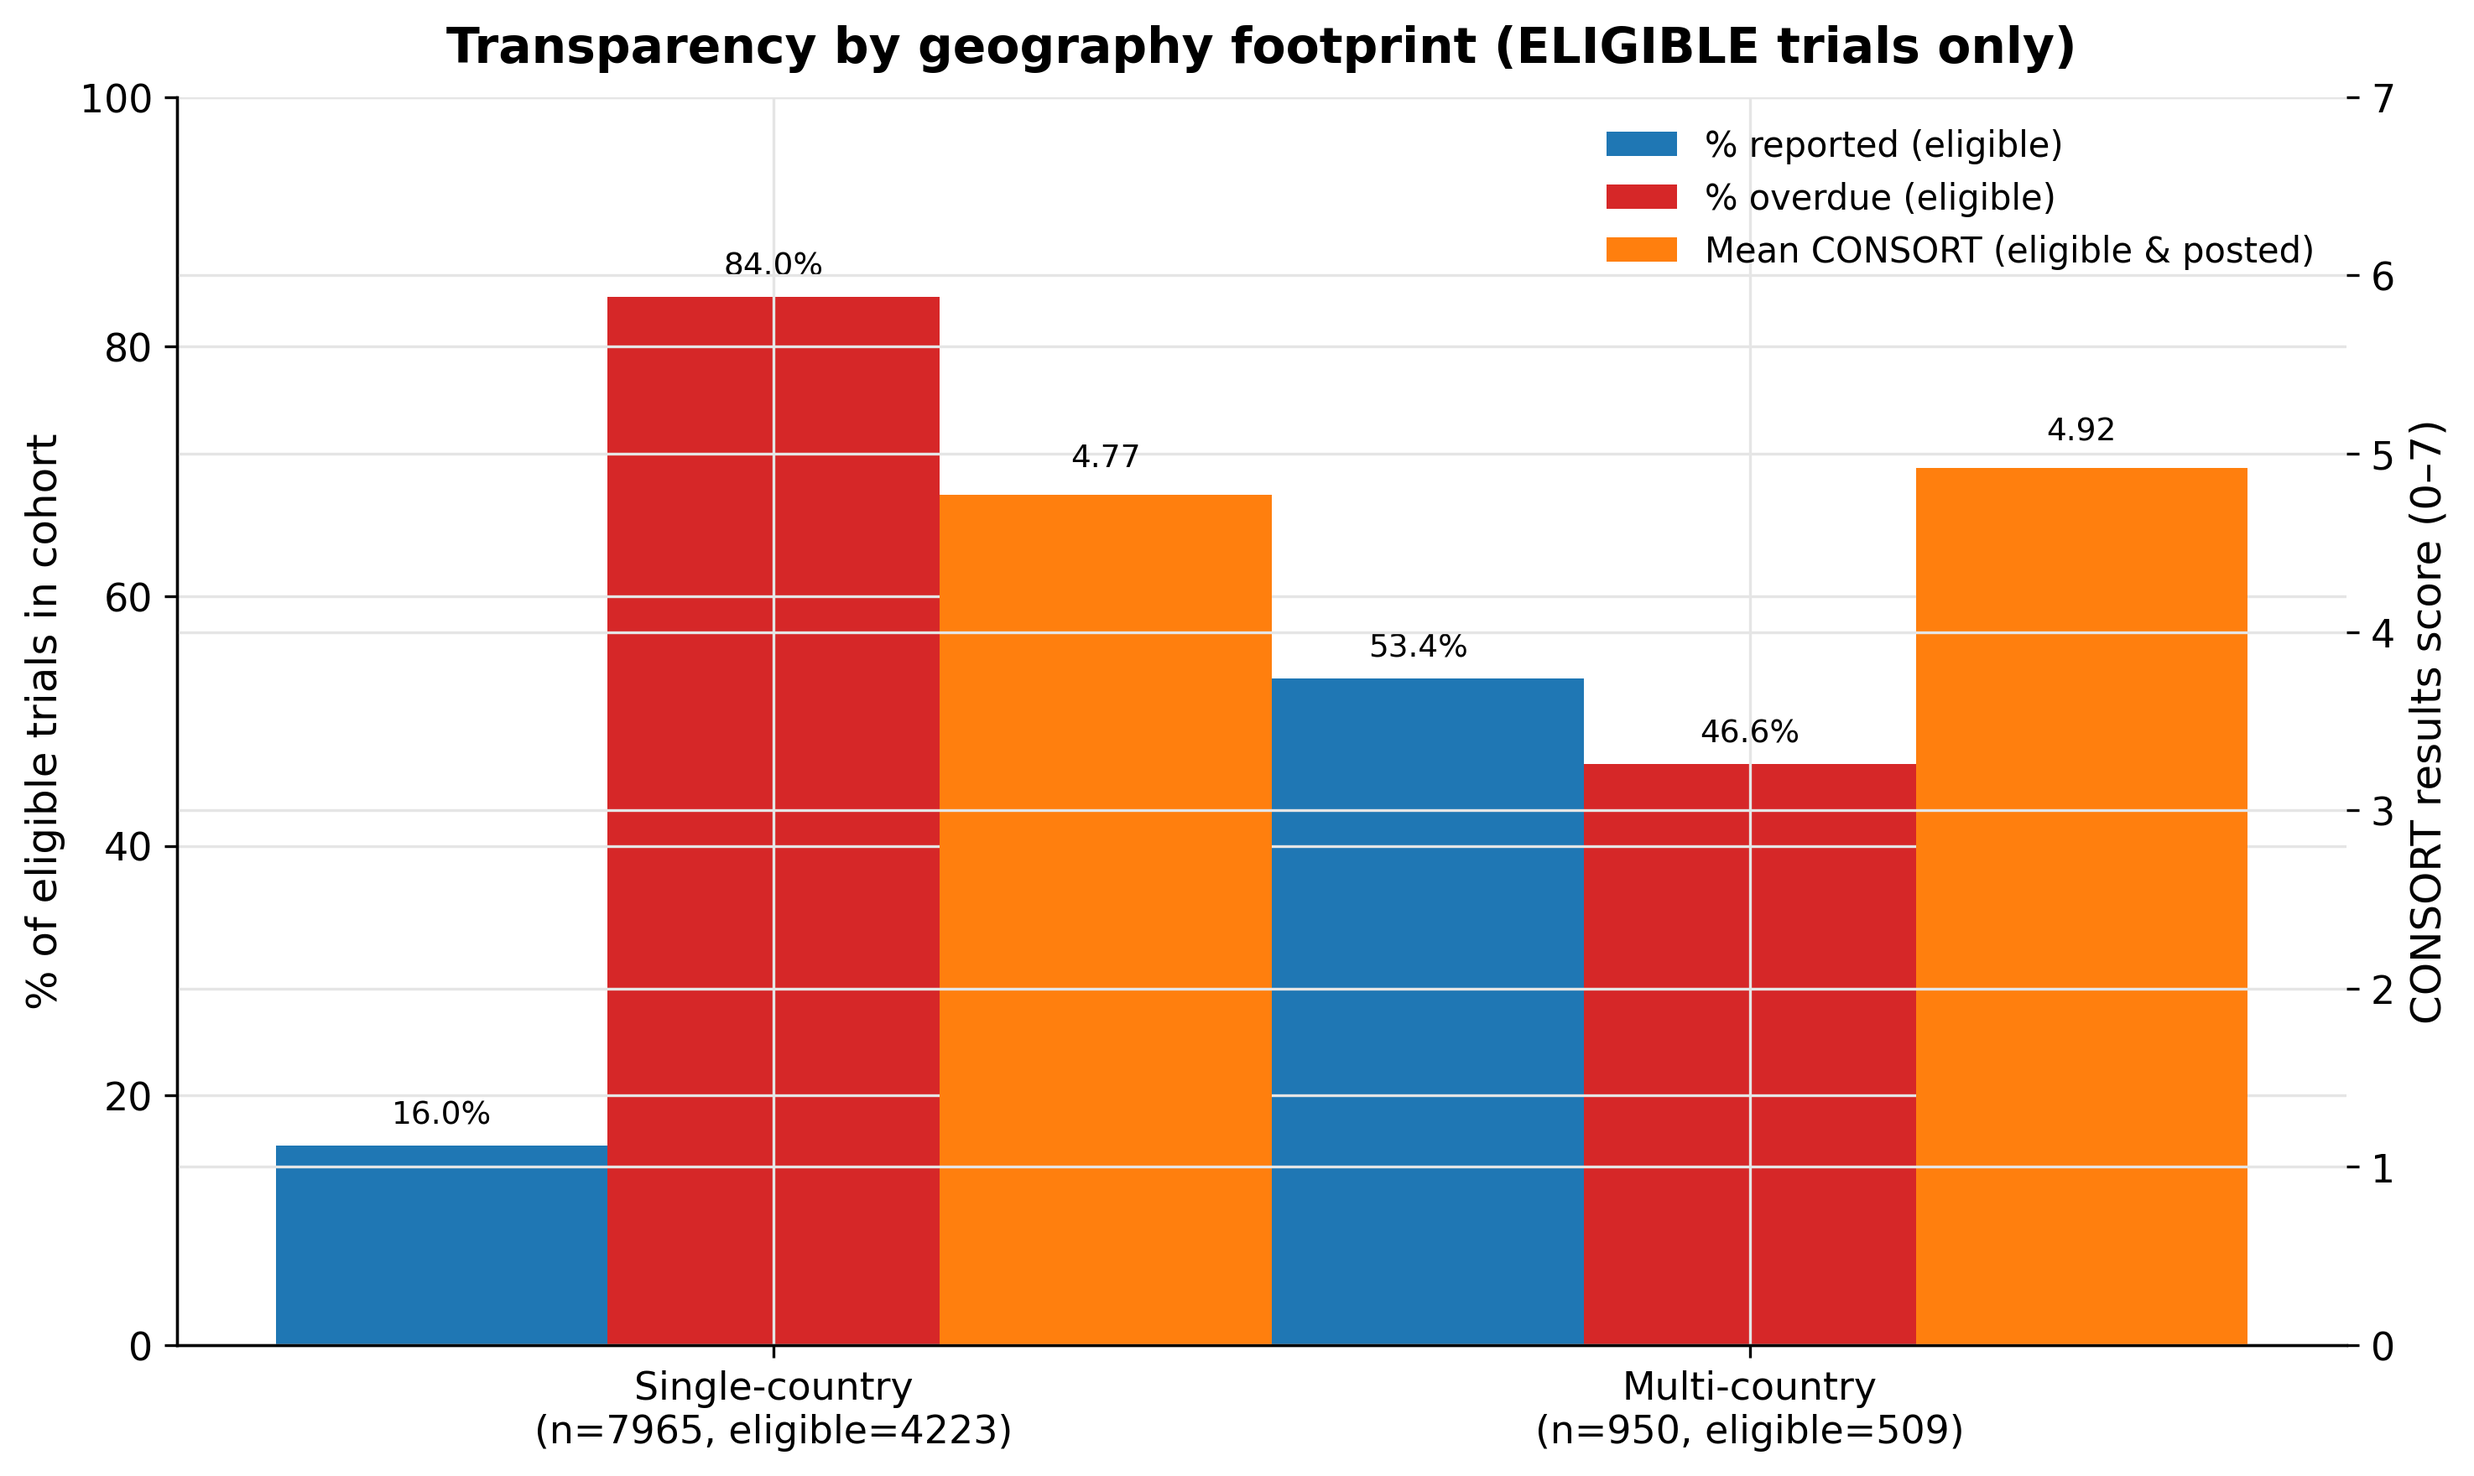
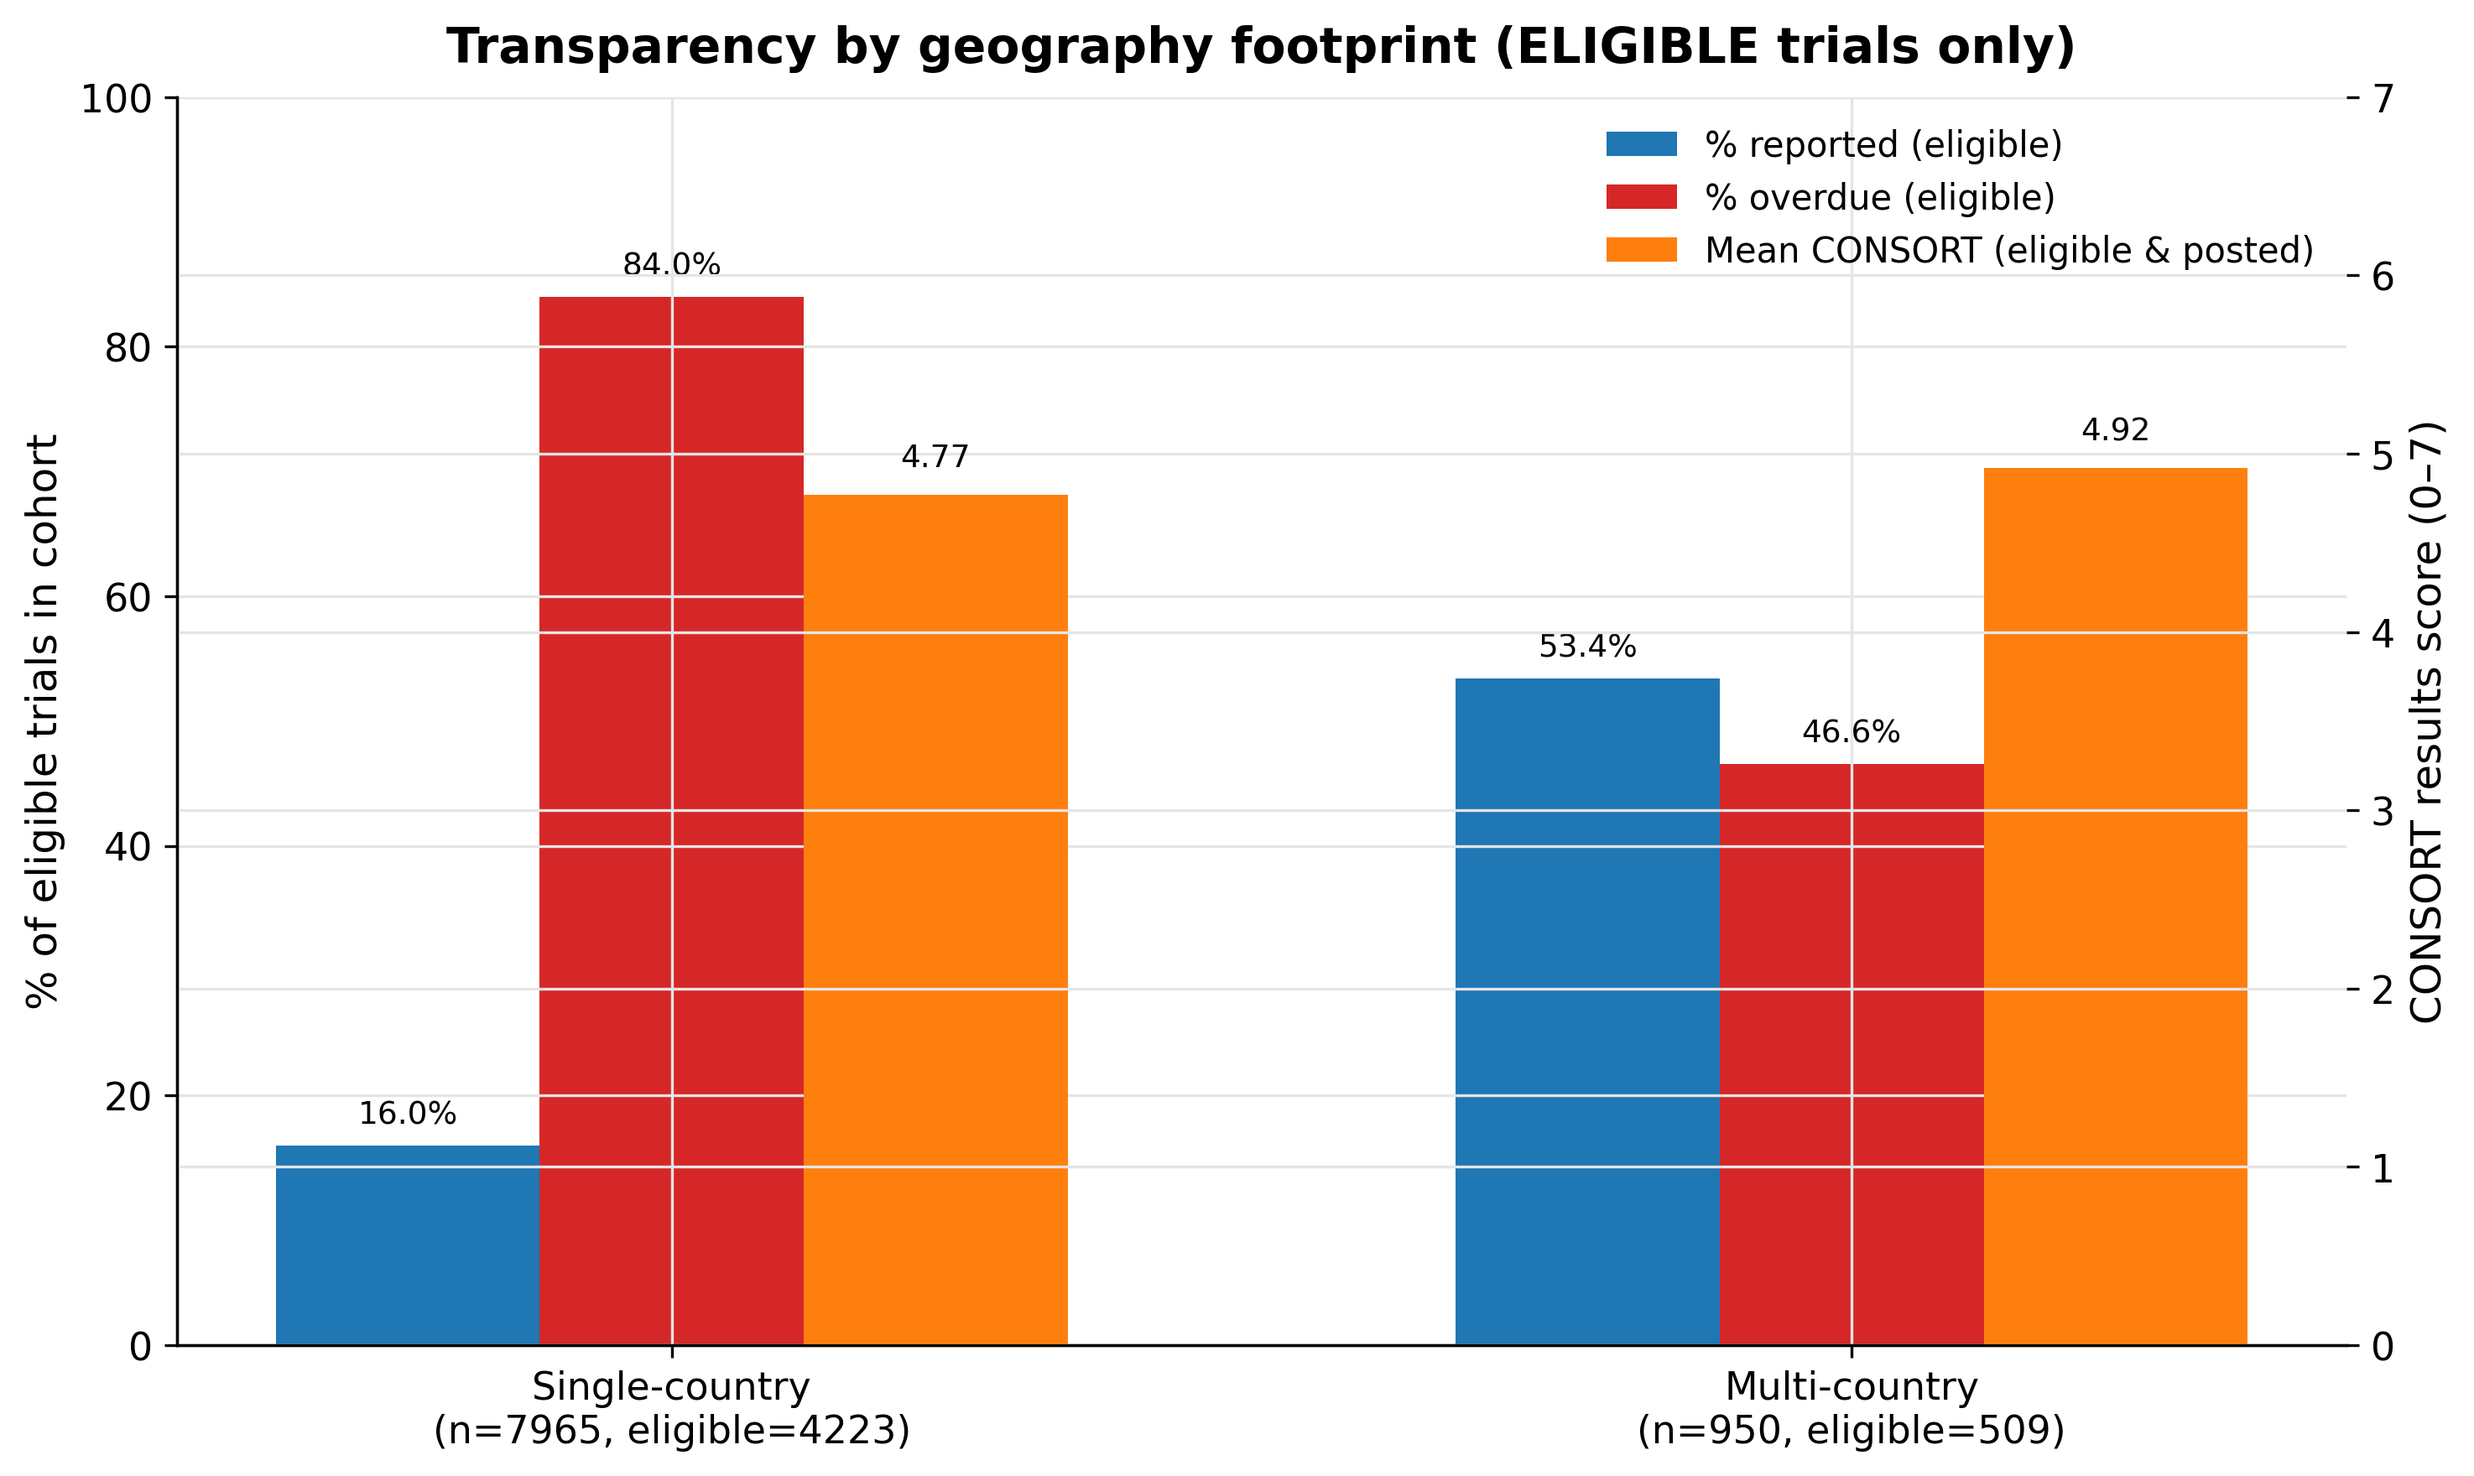
changes to sites

diff --git a/analytics/06_geography_access.py b/analytics/06_geography_access.py
@@ -126,8 +126,9 @@ def main():
 
     geo = pd.DataFrame(cohorts)
 
-    x = np.arange(len(geo))
+    # === CHANGED: keep bars within a group close, add space between groups ===
     w = 0.34
+    x = np.arange(len(geo)) * (w * 3 + 0.5)  # add inter-group spacing while keeping triplets tight
 
     c_reported = PALETTE.get("primary", "#1f77b4")
     c_overdue  = PALETTE.get("danger",  "#d62728")
@@ -183,7 +184,7 @@ Scale over time (last 8 rows):
 Transparency by footprint (ELIGIBLE only):
 {geo[['label','n_all','n_eligible','pct_reported_eligible','pct_overdue_eligible','mean_consort_reported']]
     .rename(columns={'label':'cohort','n_all':'n','n_eligible':'eligible','pct_reported_eligible':'% reported (eligible)',
-                     'pct_overdue_eligible':'% overdue (eligible)','mean_consort_reported':'CONSORT mean (reported-eligible)'})
+                     '% overdue (eligible)':'% overdue (eligible)','mean_consort_reported':'CONSORT mean (reported-eligible)'})
     .to_string(index=False, formatters={'% reported (eligible)': _fmt_pct, '% overdue (eligible)': _fmt_pct,
                                         'CONSORT mean (reported-eligible)': (lambda v: "NA" if pd.isna(v) else f"{v:.2f}")})}
 """
